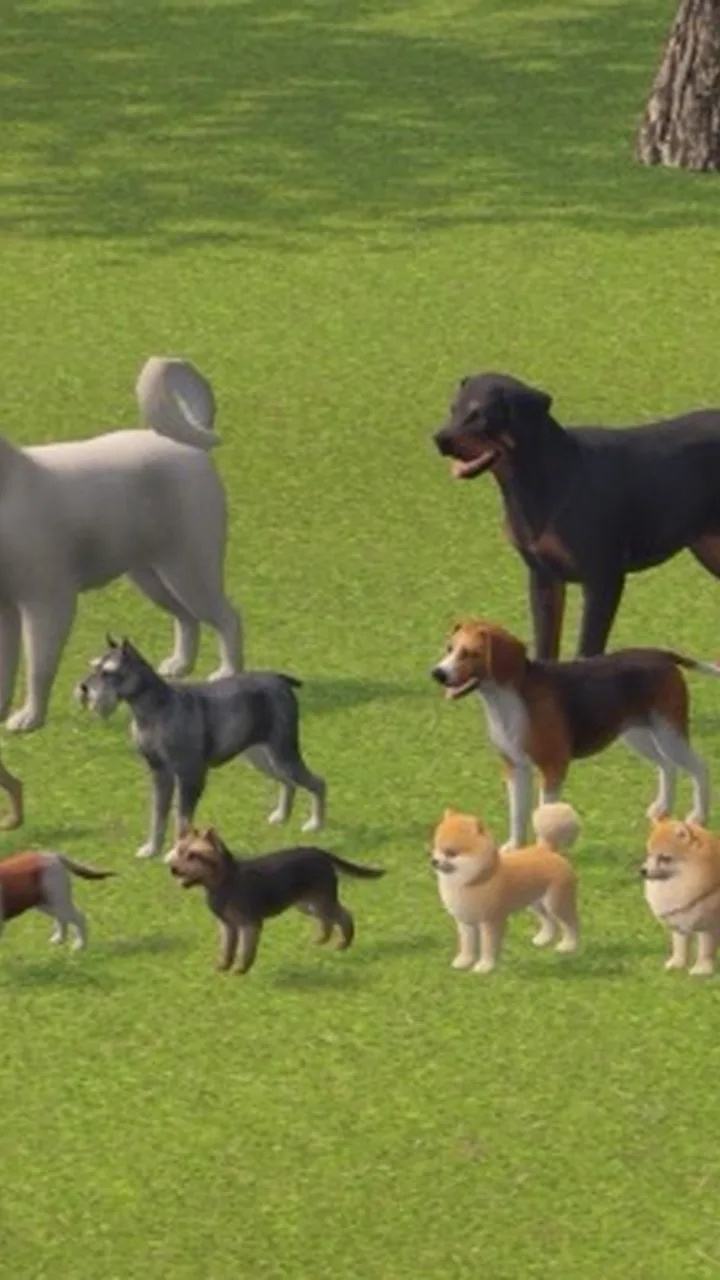
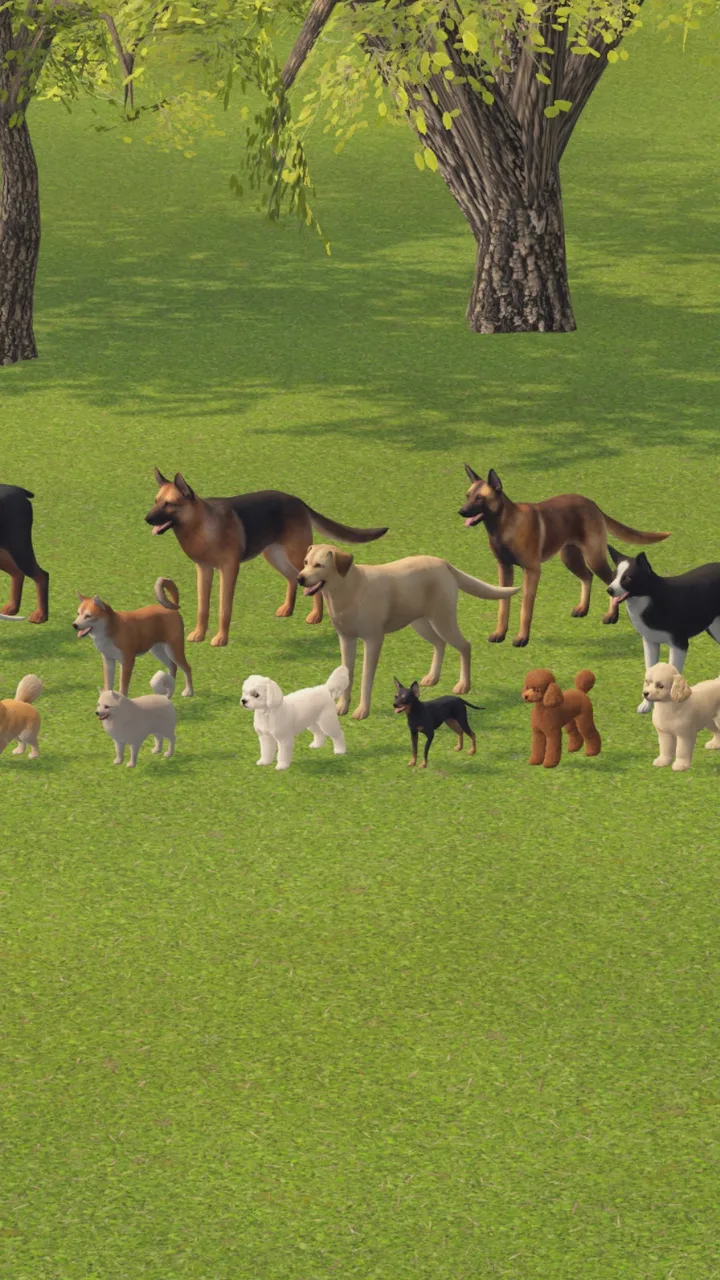
사이트 이미지 A안: 공유 미리보기 · 첫 화면 단체 사진 · 산책 섹션 시바 · 구조화 데이터 · og alt

diff --git a/ja/index.html b/ja/index.html
@@ -26,6 +26,15 @@
 <meta property="og:image:width" content="1200">
 <meta property="og:image:height" content="630">
 <meta name="twitter:card" content="summary_large_image">
+<meta property="og:image:alt" content="ゲームの中で公園の芝生に集まった、さまざまな犬種の3Dの犬">
+<meta name="twitter:image:alt" content="ゲームの中で公園の芝生に集まった、さまざまな犬種の3Dの犬">
+<script type="application/ld+json">
+{"@context":"https://schema.org","@graph":[
+ {"@type":"WebSite","@id":"https://shallwedog.com/#site","name":"Shall We Dog?","url":"https://shallwedog.com/"},
+ {"@type":"Organization","@id":"https://shallwedog.com/#org","name":"Shall We Dog?","url":"https://shallwedog.com/","logo":"https://shallwedog.com/assets/img/icon-512.png","email":"hello@shallwedog.com","sameAs":["https://www.instagram.com/shallwedog/"]},
+ {"@type":"VideoGame","name":"Shall We Dog?","url":"https://shallwedog.com/","image":"https://shallwedog.com/assets/img/og.jpg","genre":["Simulation","Casual"],"gamePlatform":["iOS","Android"],"inLanguage":["ko","en","ja","es"],"publisher":{"@id":"https://shallwedog.com/#org"}}
+]}
+</script>
 <link rel="icon" href="/favicon.ico" sizes="48x48">
 <link rel="icon" href="/assets/img/icon-192.png" type="image/png" sizes="192x192">
 <link rel="apple-touch-icon" href="/assets/img/apple-touch-icon.png">
@@ -61,8 +70,8 @@
       <p class="notice">配信が始まったらInstagram <a href="https://www.instagram.com/shallwedog/" rel="noopener">@shallwedog</a>でお知らせします。</p>
     </div>
     <div class="hero-pic">
-      <div class="phone"><img src="/assets/img/hero-walk.webp" width="720" height="1280" alt="公園の芝生をリードをつけて歩くダルメシアンの3Dゲーム画面" fetchpriority="high"></div>
-      <p class="tag">ダルメシアン<span>公園をおさんぽ中</span></p>
+      <div class="phone"><img src="/assets/img/hero-lineup.webp" width="720" height="1280" alt="公園の芝生に集まった、さまざまな犬種の3Dの犬たち(ゲーム画面)" fetchpriority="high"></div>
+      <p class="tag">37犬種<span>公園に勢ぞろい</span></p>
     </div>
   </section>
 
@@ -85,10 +94,6 @@
         <figure role="listitem"><img src="/assets/img/breeds/bordercollie.webp" width="300" height="300" alt="" loading="lazy"><figcaption>ボーダー・コリー</figcaption></figure>
         <figure role="listitem"><img src="/assets/img/breeds/samoyed.webp" width="300" height="300" alt="" loading="lazy"><figcaption>サモエド</figcaption></figure>
       </div>
-      <figure class="lineup">
-        <div class="lineup-scroll"><img src="/assets/img/lineup-1200.jpg" srcset="/assets/img/lineup-1200.jpg 1200w, /assets/img/lineup-2400.jpg 2400w" sizes="(min-width:860px) 1040px, 760px" width="1200" height="410" alt="湖のほとりの公園の芝生に、小型犬から大型犬までいろいろな犬種の3Dの犬が3列に並んだゲーム画面" loading="lazy"></div>
-        <figcaption>ゲームの犬種が勢ぞろい</figcaption>
-      </figure>
       <dl class="facts">
         <div><dt>犬種</dt><dd>37種</dd></div>
         <div><dt>体型</dt><dd>6種類</dd></div>
@@ -142,6 +147,10 @@
           <p>毛色・体型・目の色はいつでも変えられます。かわいい瞬間はスクリーンショットで保存してシェアできます。</p>
         </article>
       </div>
+      <figure class="walkpic">
+        <img src="/assets/img/walk-deck-600.webp" srcset="/assets/img/walk-deck-600.webp 600w, /assets/img/walk-deck-900.webp 900w" sizes="(min-width:860px) 420px, 88vw" width="600" height="800" alt="木のデッキのおさんぽ道で、ハーネスをつけた柴犬の3Dの犬が舌を出して立っているゲーム画面" loading="lazy" decoding="async">
+        <figcaption>木のデッキのおさんぽ道</figcaption>
+      </figure>
     </div>
   </section>
 

diff --git a/index.html b/index.html
@@ -26,6 +26,15 @@
 <meta property="og:image:width" content="1200">
 <meta property="og:image:height" content="630">
 <meta name="twitter:card" content="summary_large_image">
+<meta property="og:image:alt" content="게임 속 여러 견종의 3D 강아지가 공원 잔디밭에 모여 있는 모습">
+<meta name="twitter:image:alt" content="게임 속 여러 견종의 3D 강아지가 공원 잔디밭에 모여 있는 모습">
+<script type="application/ld+json">
+{"@context":"https://schema.org","@graph":[
+ {"@type":"WebSite","@id":"https://shallwedog.com/#site","name":"Shall We Dog?","url":"https://shallwedog.com/"},
+ {"@type":"Organization","@id":"https://shallwedog.com/#org","name":"Shall We Dog?","url":"https://shallwedog.com/","logo":"https://shallwedog.com/assets/img/icon-512.png","email":"hello@shallwedog.com","sameAs":["https://www.instagram.com/shallwedog/"]},
+ {"@type":"VideoGame","name":"Shall We Dog?","url":"https://shallwedog.com/","image":"https://shallwedog.com/assets/img/og.jpg","genre":["Simulation","Casual"],"gamePlatform":["iOS","Android"],"inLanguage":["ko","en","ja","es"],"publisher":{"@id":"https://shallwedog.com/#org"}}
+]}
+</script>
 <link rel="icon" href="/favicon.ico" sizes="48x48">
 <link rel="icon" href="/assets/img/icon-192.png" type="image/png" sizes="192x192">
 <link rel="apple-touch-icon" href="/assets/img/apple-touch-icon.png">
@@ -61,8 +70,8 @@
       <p class="notice">출시되면 인스타그램 <a href="https://www.instagram.com/shallwedog/" rel="noopener">@shallwedog</a>에서 알려드려요.</p>
     </div>
     <div class="hero-pic">
-      <div class="phone"><img src="/assets/img/hero-walk.webp" width="720" height="1280" alt="공원 잔디밭을 목줄을 하고 걷는 달마시안 3D 강아지 게임 화면" fetchpriority="high"></div>
-      <p class="tag">달마시안<span>공원 산책 중</span></p>
+      <div class="phone"><img src="/assets/img/hero-lineup.webp" width="720" height="1280" alt="게임 속 견종이 공원 잔디밭에 한자리에 모인 3D 강아지들" fetchpriority="high"></div>
+      <p class="tag">견종 37종<span>공원에 다 모였어요</span></p>
     </div>
   </section>
 
@@ -85,10 +94,6 @@
         <figure role="listitem"><img src="/assets/img/breeds/bordercollie.webp" width="300" height="300" alt="" loading="lazy"><figcaption>보더 콜리</figcaption></figure>
         <figure role="listitem"><img src="/assets/img/breeds/samoyed.webp" width="300" height="300" alt="" loading="lazy"><figcaption>사모예드</figcaption></figure>
       </div>
-      <figure class="lineup">
-        <div class="lineup-scroll"><img src="/assets/img/lineup-1200.jpg" srcset="/assets/img/lineup-1200.jpg 1200w, /assets/img/lineup-2400.jpg 2400w" sizes="(min-width:860px) 1040px, 760px" width="1200" height="410" alt="호숫가 공원 잔디밭에 작은 개부터 큰 개까지 여러 견종의 3D 강아지가 세 줄로 서 있는 게임 화면" loading="lazy"></div>
-        <figcaption>게임 속 견종이 한자리에 모였어요</figcaption>
-      </figure>
       <dl class="facts">
         <div><dt>견종</dt><dd>37종</dd></div>
         <div><dt>체형</dt><dd>6가지</dd></div>
@@ -142,6 +147,10 @@
           <p>털 색, 체형, 눈 색은 언제든 다시 바꿀 수 있어요. 예쁜 순간은 스크린샷으로 저장하고 공유해요.</p>
         </article>
       </div>
+      <figure class="walkpic">
+        <img src="/assets/img/walk-deck-600.webp" srcset="/assets/img/walk-deck-600.webp 600w, /assets/img/walk-deck-900.webp 900w" sizes="(min-width:860px) 420px, 88vw" width="600" height="800" alt="나무 데크 산책길에서 하네스를 한 시바 3D 강아지가 혀를 내밀고 서 있는 게임 화면" loading="lazy" decoding="async">
+        <figcaption>나무 데크 산책길</figcaption>
+      </figure>
     </div>
   </section>
 

diff --git a/es/index.html b/es/index.html
@@ -26,6 +26,15 @@
 <meta property="og:image:width" content="1200">
 <meta property="og:image:height" content="630">
 <meta name="twitter:card" content="summary_large_image">
+<meta property="og:image:alt" content="Perros 3D de muchas razas reunidos en el césped del parque del juego">
+<meta name="twitter:image:alt" content="Perros 3D de muchas razas reunidos en el césped del parque del juego">
+<script type="application/ld+json">
+{"@context":"https://schema.org","@graph":[
+ {"@type":"WebSite","@id":"https://shallwedog.com/#site","name":"Shall We Dog?","url":"https://shallwedog.com/"},
+ {"@type":"Organization","@id":"https://shallwedog.com/#org","name":"Shall We Dog?","url":"https://shallwedog.com/","logo":"https://shallwedog.com/assets/img/icon-512.png","email":"hello@shallwedog.com","sameAs":["https://www.instagram.com/shallwedog/"]},
+ {"@type":"VideoGame","name":"Shall We Dog?","url":"https://shallwedog.com/","image":"https://shallwedog.com/assets/img/og.jpg","genre":["Simulation","Casual"],"gamePlatform":["iOS","Android"],"inLanguage":["ko","en","ja","es"],"publisher":{"@id":"https://shallwedog.com/#org"}}
+]}
+</script>
 <link rel="icon" href="/favicon.ico" sizes="48x48">
 <link rel="icon" href="/assets/img/icon-192.png" type="image/png" sizes="192x192">
 <link rel="apple-touch-icon" href="/assets/img/apple-touch-icon.png">
@@ -61,8 +70,8 @@
       <p class="notice">Anunciaremos el lanzamiento en Instagram <a href="https://www.instagram.com/shallwedog/" rel="noopener">@shallwedog</a>.</p>
     </div>
     <div class="hero-pic">
-      <div class="phone"><img src="/assets/img/hero-walk.webp" width="720" height="1280" alt="Pantalla del juego: un dálmata 3D con correa paseando por el césped del parque" fetchpriority="high"></div>
-      <p class="tag">Dálmata<span>Paseando por el parque</span></p>
+      <div class="phone"><img src="/assets/img/hero-lineup.webp" width="720" height="1280" alt="Perros 3D de muchas razas reunidos en el césped del parque (pantalla del juego)" fetchpriority="high"></div>
+      <p class="tag">37 razas<span>Todas juntas en el parque</span></p>
     </div>
   </section>
 
@@ -85,10 +94,6 @@
         <figure role="listitem"><img src="/assets/img/breeds/bordercollie.webp" width="300" height="300" alt="" loading="lazy"><figcaption>Border collie</figcaption></figure>
         <figure role="listitem"><img src="/assets/img/breeds/samoyed.webp" width="300" height="300" alt="" loading="lazy"><figcaption>Samoyedo</figcaption></figure>
       </div>
-      <figure class="lineup">
-        <div class="lineup-scroll"><img src="/assets/img/lineup-1200.jpg" srcset="/assets/img/lineup-1200.jpg 1200w, /assets/img/lineup-2400.jpg 2400w" sizes="(min-width:860px) 1040px, 760px" width="1200" height="410" alt="Pantalla del juego: perros 3D de muchas razas, de pequeños a grandes, en tres filas sobre el césped de un parque junto al lago" loading="lazy"></div>
-        <figcaption>Todas las razas del juego, juntas</figcaption>
-      </figure>
       <dl class="facts">
         <div><dt>Razas</dt><dd>37</dd></div>
         <div><dt>Complexiones</dt><dd>6</dd></div>
@@ -142,6 +147,10 @@
           <p>Puedes cambiar el color del pelo, la complexión y el color de ojos cuando quieras. Guarda tus momentos favoritos como capturas y compártelos.</p>
         </article>
       </div>
+      <figure class="walkpic">
+        <img src="/assets/img/walk-deck-600.webp" srcset="/assets/img/walk-deck-600.webp 600w, /assets/img/walk-deck-900.webp 900w" sizes="(min-width:860px) 420px, 88vw" width="600" height="800" alt="Pantalla del juego: un shiba 3D con arnés, de pie en un paseo de madera y sacando la lengua" loading="lazy" decoding="async">
+        <figcaption>El paseo de madera</figcaption>
+      </figure>
     </div>
   </section>
 

diff --git a/en/index.html b/en/index.html
@@ -26,6 +26,15 @@
 <meta property="og:image:width" content="1200">
 <meta property="og:image:height" content="630">
 <meta name="twitter:card" content="summary_large_image">
+<meta property="og:image:alt" content="Many breeds of 3D dogs gathered on the park lawn in the game">
+<meta name="twitter:image:alt" content="Many breeds of 3D dogs gathered on the park lawn in the game">
+<script type="application/ld+json">
+{"@context":"https://schema.org","@graph":[
+ {"@type":"WebSite","@id":"https://shallwedog.com/#site","name":"Shall We Dog?","url":"https://shallwedog.com/"},
+ {"@type":"Organization","@id":"https://shallwedog.com/#org","name":"Shall We Dog?","url":"https://shallwedog.com/","logo":"https://shallwedog.com/assets/img/icon-512.png","email":"hello@shallwedog.com","sameAs":["https://www.instagram.com/shallwedog/"]},
+ {"@type":"VideoGame","name":"Shall We Dog?","url":"https://shallwedog.com/","image":"https://shallwedog.com/assets/img/og.jpg","genre":["Simulation","Casual"],"gamePlatform":["iOS","Android"],"inLanguage":["ko","en","ja","es"],"publisher":{"@id":"https://shallwedog.com/#org"}}
+]}
+</script>
 <link rel="icon" href="/favicon.ico" sizes="48x48">
 <link rel="icon" href="/assets/img/icon-192.png" type="image/png" sizes="192x192">
 <link rel="apple-touch-icon" href="/assets/img/apple-touch-icon.png">
@@ -61,8 +70,8 @@
       <p class="notice">We’ll announce the launch on Instagram <a href="https://www.instagram.com/shallwedog/" rel="noopener">@shallwedog</a>.</p>
     </div>
     <div class="hero-pic">
-      <div class="phone"><img src="/assets/img/hero-walk.webp" width="720" height="1280" alt="Game screen of a 3D Dalmatian on a leash walking on the park lawn" fetchpriority="high"></div>
-      <p class="tag">Dalmatian<span>Walking in the park</span></p>
+      <div class="phone"><img src="/assets/img/hero-lineup.webp" width="720" height="1280" alt="Game screen of 3D dogs of many breeds gathered on the park lawn" fetchpriority="high"></div>
+      <p class="tag">37 breeds<span>All together in the park</span></p>
     </div>
   </section>
 
@@ -85,10 +94,6 @@
         <figure role="listitem"><img src="/assets/img/breeds/bordercollie.webp" width="300" height="300" alt="" loading="lazy"><figcaption>Border Collie</figcaption></figure>
         <figure role="listitem"><img src="/assets/img/breeds/samoyed.webp" width="300" height="300" alt="" loading="lazy"><figcaption>Samoyed</figcaption></figure>
       </div>
-      <figure class="lineup">
-        <div class="lineup-scroll"><img src="/assets/img/lineup-1200.jpg" srcset="/assets/img/lineup-1200.jpg 1200w, /assets/img/lineup-2400.jpg 2400w" sizes="(min-width:860px) 1040px, 760px" width="1200" height="410" alt="Game screen of 3D dogs of many breeds, from small to large, standing in three rows on the lawn of a lakeside park" loading="lazy"></div>
-        <figcaption>The breeds of the game, all in one place</figcaption>
-      </figure>
       <dl class="facts">
         <div><dt>Breeds</dt><dd>37</dd></div>
         <div><dt>Body types</dt><dd>6</dd></div>
@@ -142,6 +147,10 @@
           <p>You can change coat color, body type and eye color anytime. Save your favorite moments as screenshots and share them.</p>
         </article>
       </div>
+      <figure class="walkpic">
+        <img src="/assets/img/walk-deck-600.webp" srcset="/assets/img/walk-deck-600.webp 600w, /assets/img/walk-deck-900.webp 900w" sizes="(min-width:860px) 420px, 88vw" width="600" height="800" alt="Game screen of a 3D Shiba in a harness standing on a wooden boardwalk with its tongue out" loading="lazy" decoding="async">
+        <figcaption>The wooden boardwalk trail</figcaption>
+      </figure>
     </div>
   </section>
 

diff --git a/assets/css/site.css b/assets/css/site.css
@@ -210,3 +210,6 @@ p{margin:0}
 .tips li{display:flex; gap:12px; align-items:flex-start; background:var(--card); border-radius:16px; padding:12px 14px; box-shadow:var(--shadow)}
 .tips .ico{flex:none; width:36px; height:36px; border-radius:12px; display:grid; place-items:center; background:var(--green-soft); font-size:19px}
 .tips li+li{margin-top:0}
+.walkpic{margin:22px auto 0; max-width:420px}
+.walkpic img{display:block; width:100%; height:auto; border-radius:18px; box-shadow:var(--shadow)}
+.walkpic figcaption{font-size:13px; font-weight:600; color:var(--sub); margin-top:8px; text-align:center}

diff --git a/초안메모/site_tools/build_pages.py b/초안메모/site_tools/build_pages.py
@@ -21,8 +21,8 @@ T = [
 ('곧 출시', 'Soon', 'まもなく', 'Pronto'),
 ('출시되면 인스타그램', 'We’ll announce the launch on Instagram', '配信が始まったらInstagram', 'Anunciaremos el lanzamiento en Instagram'),
 ('에서 알려드려요.', '.', 'でお知らせします。', '.'),
-('달마시안', 'Dalmatian', 'ダルメシアン', 'Dálmata'),
-('공원 산책 중', 'Walking in the park', '公園をおさんぽ中', 'Paseando por el parque'),
+('견종 37종', '37 breeds', '37犬種', '37 razas'),
+('공원에 다 모였어요', 'All together in the park', '公園に勢ぞろい', 'Todas juntas en el parque'),
 ('만들기', 'Create', 'つくる', 'Crear'),
 ('견종부터 털 색, 체형까지 골라요', 'Choose breed, coat color and body type', '犬種から毛色、体型まで選べます', 'Elige raza, color del pelo y complexión'),
 ('우리 개와 닮은 견종을 고르고, 털 색과 체형을 맞춰요. 키와 몸무게를 적으면 크기도 비슷해져요.',
@@ -97,7 +97,9 @@ T = [
 ('출시되면 여기서 알려드려요', 'We’ll let you know when it launches', '配信が始まったらお知らせします', 'Te avisaremos cuando se lance'),
 ('새 소식과 게임 화면은 인스타그램에 먼저 올려요.', 'News and new screens go up on Instagram first.', '新しいお知らせやゲーム画面は、Instagramに先に載せます。', 'Las novedades y nuevas pantallas se publican primero en Instagram.'),
 ('인스타그램 @shallwedog', 'Instagram @shallwedog', 'Instagram @shallwedog', 'Instagram @shallwedog'),
-('공원 잔디밭을 목줄을 하고 걷는 달마시안 3D 강아지 게임 화면', 'Game screen of a 3D Dalmatian on a leash walking on the park lawn', '公園の芝生をリードをつけて歩くダルメシアンの3Dゲーム画面', 'Pantalla del juego: un dálmata 3D con correa paseando por el césped del parque'),
+('게임 속 견종이 공원 잔디밭에 한자리에 모인 3D 강아지들', 'Game screen of 3D dogs of many breeds gathered on the park lawn', '公園の芝生に集まった、さまざまな犬種の3Dの犬たち(ゲーム画面)', 'Perros 3D de muchas razas reunidos en el césped del parque (pantalla del juego)'),
+('나무 데크 산책길에서 하네스를 한 시바 3D 강아지가 혀를 내밀고 서 있는 게임 화면', 'Game screen of a 3D Shiba in a harness standing on a wooden boardwalk with its tongue out', '木のデッキのおさんぽ道で、ハーネスをつけた柴犬の3Dの犬が舌を出して立っているゲーム画面', 'Pantalla del juego: un shiba 3D con arnés, de pie en un paseo de madera y sacando la lengua'),
+('나무 데크 산책길', 'The wooden boardwalk trail', '木のデッキのおさんぽ道', 'El paseo de madera'),
 ('게임 화면 모음, 옆으로 넘겨 보세요', 'Game screens, swipe sideways', 'ゲーム画面の一覧。横にスワイプしてください', 'Pantallas del juego, desliza hacia los lados'),
 ('견종을 고르는 화면. 달마시안이 선택되어 있어요', 'Breed selection screen with the Dalmatian selected', '犬種を選ぶ画面。ダルメシアンが選ばれています', 'Pantalla de elegir raza con el dálmata seleccionado'),
 ('털 색을 고르는 화면', 'Coat color selection screen', '毛色を選ぶ画面', 'Pantalla de elegir color del pelo'),
@@ -108,8 +110,6 @@ T = [
 ('어질리티 단계 목록', 'Agility stage list', 'アジリティのステージ一覧', 'Lista de etapas de agility'),
 ('허들 런과 멍멍 배구 중에 고르는 미니게임 창', 'Mini game window to choose Hurdle Run or Woof Volleyball', 'ハードルランとわんわんバレーから選ぶミニゲーム画面', 'Ventana de minijuegos para elegir Carrera de vallas o Vóley perruno'),
 ('포메라니안 미용 스타일을 고르는 꾸미기 화면', 'Style screen choosing a Pomeranian grooming style', 'ポメラニアンのカットスタイルを選ぶおしゃれ画面', 'Pantalla de estilo eligiendo el corte de un pomerania'),
-('호숫가 공원 잔디밭에 작은 개부터 큰 개까지 여러 견종의 3D 강아지가 세 줄로 서 있는 게임 화면', 'Game screen of 3D dogs of many breeds, from small to large, standing in three rows on the lawn of a lakeside park', '湖のほとりの公園の芝生に、小型犬から大型犬までいろいろな犬種の3Dの犬が3列に並んだゲーム画面', 'Pantalla del juego: perros 3D de muchas razas, de pequeños a grandes, en tres filas sobre el césped de un parque junto al lago'),
-('게임 속 견종이 한자리에 모였어요', 'The breeds of the game, all in one place', 'ゲームの犬種が勢ぞろい', 'Todas las razas del juego, juntas'),
 ('스크린샷을 저장하거나 공유하는 화면', 'Screen for saving or sharing a screenshot', 'スクリーンショットを保存・シェアする画面', 'Pantalla para guardar o compartir una captura'),
 ]
 HOME_META = {
@@ -135,7 +135,19 @@ def home(lang):
     n = main.count('href="/support/#custom"'); assert n == 1, n
     main = main.replace('href="/support/#custom"', f'href="/{lang}/support/#custom"')
     title, desc = HOME_META[lang]
-    return sitekit.page(lang, f'/{lang}/', title, desc, main)
+    s = sitekit.page(lang, f'/{lang}/', title, desc, main)
+    # 첫 화면만: 공유 그림 설명 + 구조화 데이터 (한국어 index.html 머리와 같은 것)
+    head = open('index.html', encoding='utf-8').read()
+    ld = re.search(r'<script type="application/ld\+json">.*?</script>', head, re.S).group(0)
+    alt = OG_ALT[lang]
+    tw = '<meta name="twitter:card" content="summary_large_image">'
+    assert s.count(tw) == 1
+    return s.replace(tw, tw + f'\n<meta property="og:image:alt" content="{alt}">\n<meta name="twitter:image:alt" content="{alt}">\n' + ld)
+
+
+OG_ALT = {'en': 'Many breeds of 3D dogs gathered on the park lawn in the game',
+          'ja': 'ゲームの中で公園の芝生に集まった、さまざまな犬種の3Dの犬',
+          'es': 'Perros 3D de muchas razas reunidos en el césped del parque del juego'}
 
 
 TITLES = {
